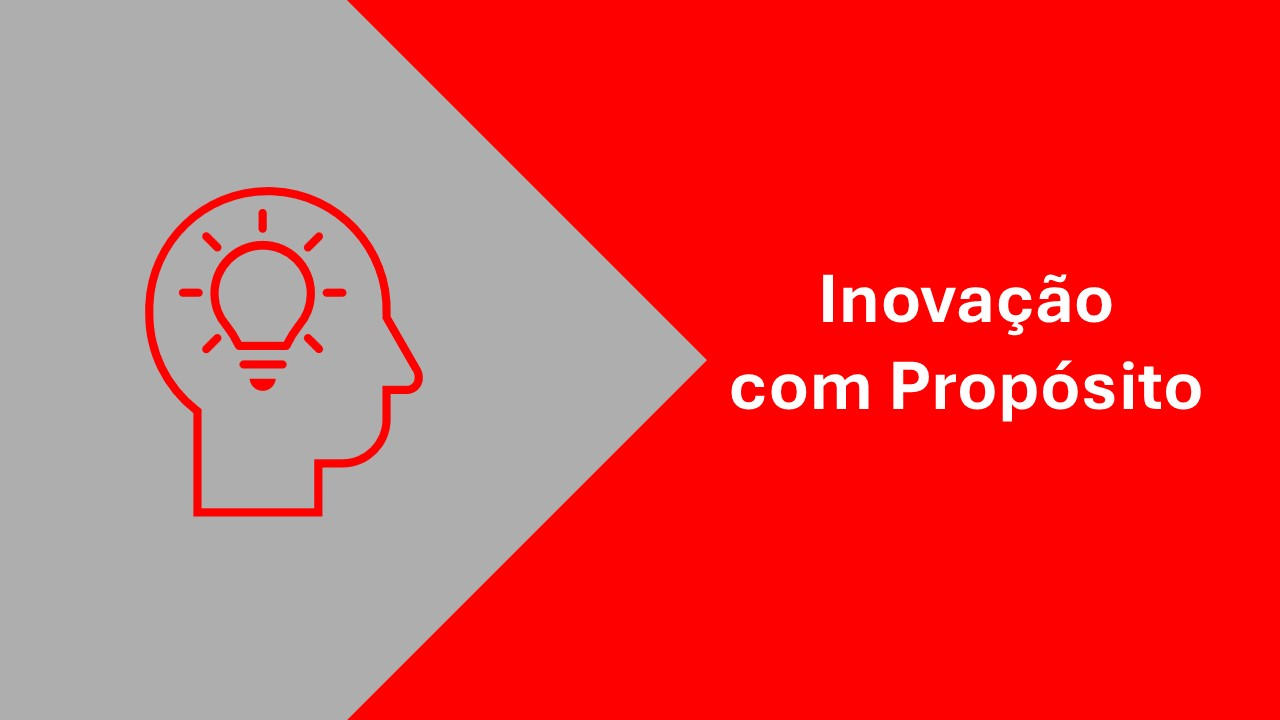
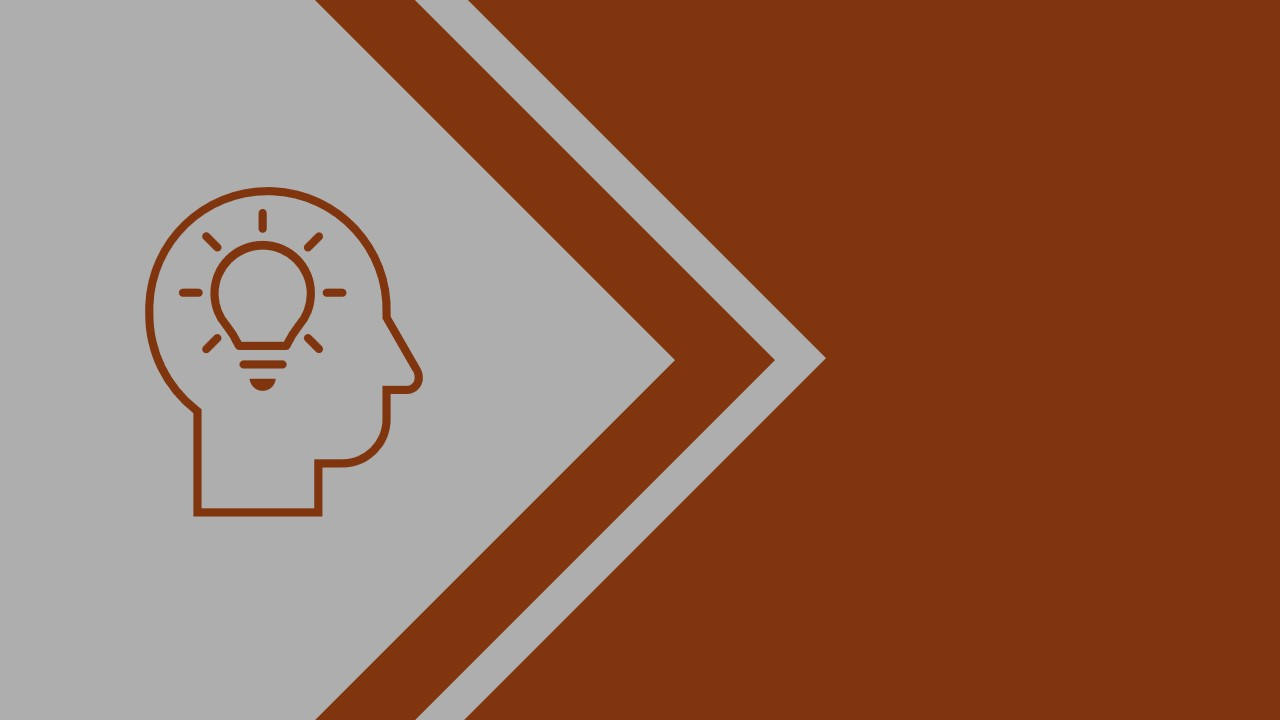
updates

diff --git a/index.html b/index.html
@@ -259,26 +259,36 @@
                             </p>
                         </article>
                         <article>
-                            <div class="caixa">
-                                <h2>
+                            <div class="caixa"> <!--Caixa1-->
+                                <div>
                                     <img src="Assets/Images/Apresentação1.jpg" alt="">
-                                </h2>
-                                <p>
-                                    Acreditamos que a inovação é a chave para o sucesso. Estamos sempre em busca de novas ideias e soluções criativas para atender às necessidades dos nossos clientes.
+                                    <h2>
+                                       Inovação com <br> Propósito
+                                    </h2>
+                                </div>
+                                <p id="p1">
+                                    Acreditamos que a inovação é a chave para o sucesso. 
+                                    Estamos sempre em busca de novas ideias e soluções criativas para atender às necessidades dos nossos clientes.
                                 </p>
                             </div>
-                            <div class="caixa">
-                                <h2>
+                            <div class="caixa"> <!--Caixa2-->
+                                <div>
                                     <img src="Assets/Images/Apresentação2.jpg" alt="">
-                                </h2>
+                                    <h2>
+                                       Criatividade <br> Estratégica
+                                    </h2>
+                                </div>
                                 <p>
                                     Buscamos a excelência em tudo o que fazemos. Nossos serviços são desenvolvidos com o mais alto padrão de qualidade e profissionalismo.
                                 </p>
                             </div>
-                            <div class="caixa">
-                                <h2>
+                            <div class="caixa"> <!--Caixa3-->
+                                <div>
                                     <img src="Assets/Images/Apresentação3.jpg" alt="">
-                                </h2>
+                                    <h2>
+                                        Acessibilidade <br> Tecnológica
+                                    </h2>
+                                </div>
                                 <p>
                                     Acreditamos que o trabalho em equipe é fundamental para o sucesso. Trabalhamos em estreita colaboração com nossos clientes para entender suas necessidades e oferecer soluções personalizadas.
                                 </p>

diff --git a/Assets/Style/estilo-2.css b/Assets/Style/estilo-2.css
@@ -729,9 +729,35 @@ body{
     text-align: center;
     font-size: .9em;
     font-family: cursive;
+    letter-spacing: .2em;
 }
 
-.our-values > article .caixa >h2 > img{
+
+.our-values > article .caixa >div{
+    position: relative;
+}
+
+.our-values > article .caixa >div > h2{
+    position: absolute;
+    font-size: .9em;
+    text-align: center;
+    top: 6em;
+    right: 1.5em;
+    color: #8a8787f8;
+    transition: 1s;
+}
+
+.our-values > article .caixa >div:hover h2{
+    position: absolute;
+    font-size: .9em;
+    text-align: center;
+    top: 2em;
+    right: 1.5em;
+    color: #fff;
+    cursor: default;
+}
+
+.our-values > article .caixa >div > img{
     width: 100%;
     height: 50%;
     border-radius: .9em;
